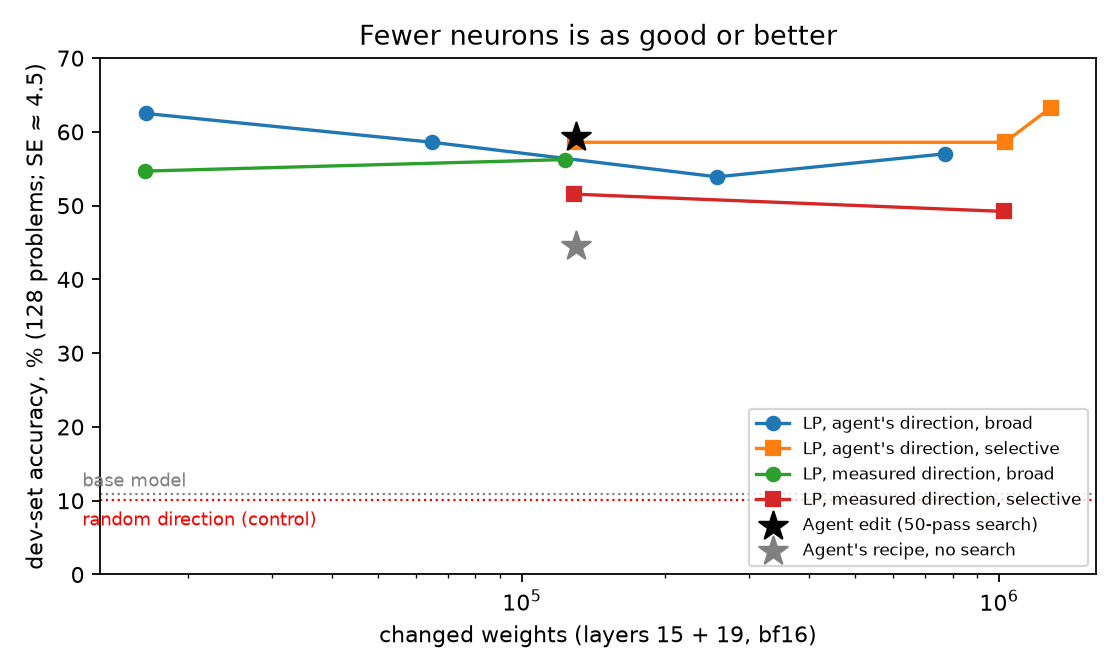
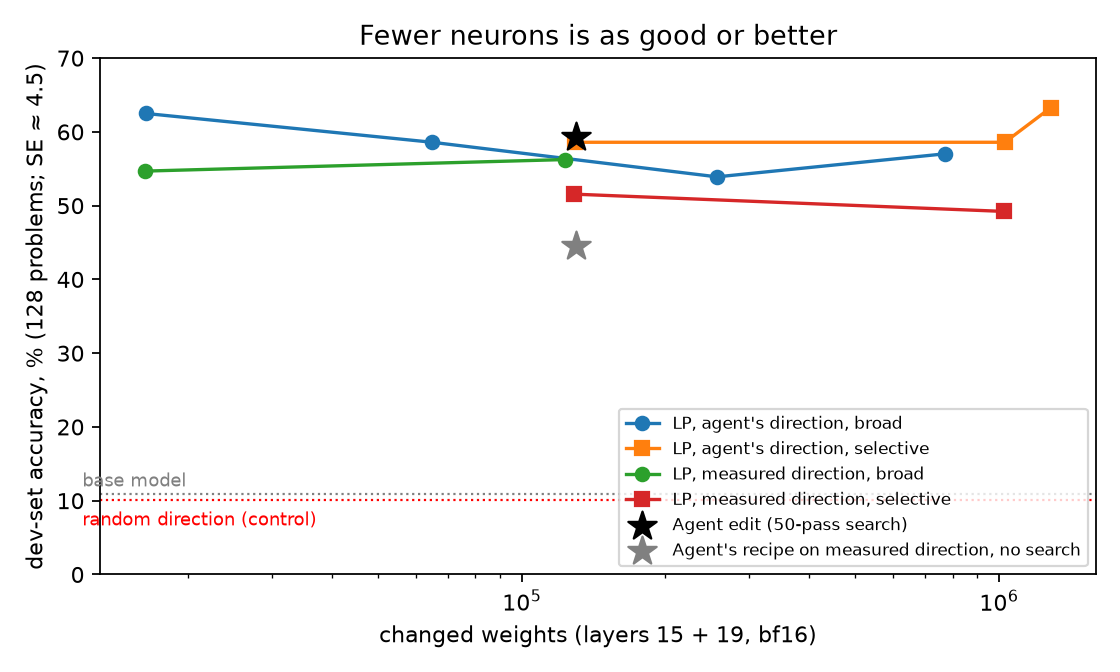
Fix the no-search recipe comparison: that control uses the measured direction (44.5 vs LP 54.7 on the same direction), not the agent's

Changed region(s): [[0.5312, 0.5938, 0.9688, 0.8438]]

diff --git a/scripts/make_figures.py b/scripts/make_figures.py
@@ -37,7 +37,7 @@ for label, (names, col, mk) in series.items():
     x = [weights(n) for n in names]
     y = [dev_acc(n) for n in names]
     ax.plot(x, y, marker=mk, color=col, label=label)
-for n, txt, col in [("astra_p50c", "Agent edit (50-pass search)", "k"), ("recipe_nosearch", "Agent's recipe, no search", "gray")]:
+for n, txt, col in [("astra_p50c", "Agent edit (50-pass search)", "k"), ("recipe_nosearch", "Agent's recipe on measured direction, no search", "gray")]:
     ax.scatter([weights(n)], [dev_acc(n)], marker="*", s=180, color=col, zorder=5, label=txt)
 ax.axhline(dev_acc("base"), color="gray", ls=":", lw=1)
 ax.text(1.2e4, dev_acc("base") + 1, "base model", color="gray", fontsize=8)

diff --git a/src/wslp/eval/results.py b/src/wslp/eval/results.py
@@ -39,7 +39,7 @@ def totals(runs, sets=None) -> dict:
     return {"samples": n, "cut_share": cut / n, "mean_tokens": tok / n}
 
 
-FIXED = {"base": "Base model", "astra_p50c": "Agent edit", "recipe_nosearch": "Agent's recipe, no search",
+FIXED = {"base": "Base model", "astra_p50c": "Agent edit", "recipe_nosearch": "Agent's recipe on the measured direction, no search",
          "random_ctrl": "Random direction (control)"}
 HEADLINE = {"shift_k8": "LP, agent's direction", "realshift_k8": "LP, measured direction"}
 

diff --git a/docs/WRITEUP.md b/docs/WRITEUP.md
@@ -92,7 +92,8 @@ cosine with the agent's direction is about 0.6.
    - **broad** (ε = 1.0: productive tokens may move, so the edit becomes a near-constant push) vs. **selective**
      (ε = 0.25: the edit tries to act only on loops).
 
-   Controls: a random direction, and the agent's recipe applied once without its search. The pick was **broad, 8
+   Controls: a random direction, and the agent's recipe (its column scoring and 6× rule) applied once to the
+   measured direction, without search. The pick was **broad, 8
    neurons per layer**. "LP, agent's direction" and "LP, measured direction" below both mean that setting.
 4. **Confirmed on untouched data** ([results/benchmarks](../results/benchmarks/README.md)): 512 fresh practice
    problems never used to fit or pick anything, GSM8K test, MATH-500 (4 samples per problem) and IFEval.
@@ -107,8 +108,9 @@ cosine with the agent's direction is about 0.6.
 
 - **Given the agent's direction, the LP matches the agent edit with 8× fewer weights.** It is within about a point of
   the agent edit on every benchmark, all within noise.
-- **The search was worth something, and the LP replaces it.** The agent's recipe applied once without its search
-  scores 44.5 on the dev set vs. 59.4 for the agent edit. One LP solve on the same direction scores 62.5.
+- **On the same direction, the LP beats the agent's recipe.** The agent's recipe applied once to the measured
+  direction, without search, scores 44.5 on the dev set; one LP solve on that direction scores 54.7 with 8 neurons
+  per layer. On the agent's direction, one LP solve (62.5) does as well as the agent's searched edit (59.4).
 - **With the measured direction (no LLM, though still on the agent's layers 15 and 19), the LP gets about 93% of the
   way.** It is about 3 points behind the agent edit on GSM8K test and MATH-500 and ties it on IFEval. The gap comes
   from the direction, not the push strength: pushing looping tokens 2×, 4× or 8× their measured excess along `u`

diff --git a/results/dev_sweep/README.md b/results/dev_sweep/README.md
@@ -13,7 +13,7 @@ Table built by `python scripts/paired_table.py`.
 |---|---|---|---|---|---|---|---|---|---|
 | Base model | `base` | 0 | 10.9 | 10.9 | 10.9 | +0.0 (0.0) | 0 / 0 | 89.1 | 29,868 |
 | Agent edit | `astra_p50c` | 130,188 | 70.3 | 48.4 | 59.4 | +48.4 (4.7) | 64 / 2 | 12.5 | 16,502 |
-| Agent's recipe, no search | `recipe_nosearch` | 130,152 | 53.1 | 35.9 | 44.5 | +33.6 (4.2) | 43 / 0 | 48.4 | 20,719 |
+| Agent's recipe on the measured direction, no search | `recipe_nosearch` | 130,152 | 53.1 | 35.9 | 44.5 | +33.6 (4.2) | 43 / 0 | 48.4 | 20,719 |
 | Random direction (control) | `random_ctrl` | 130,285 | 9.4 | 10.9 | 10.2 | -0.8 (2.1) | 3 / 4 | 92.2 | 30,661 |
 | LP, agent's direction, broad, 8 neurons/layer | `shift_k8` | 16,291 | 71.9 | 53.1 | 62.5 | +51.6 (4.6) | 67 / 1 | 21.9 | 14,501 |
 | LP, agent's direction, broad, 32 neurons/layer | `shift_k32` | 64,927 | 70.3 | 46.9 | 58.6 | +47.7 (4.6) | 62 / 1 | 25.0 | 14,278 |

diff --git a/results/README.md b/results/README.md
@@ -9,7 +9,7 @@ Tables use readable names; file and folder names use short IDs:
 | `shift_k<N>` / `sel_k<N>` | LP with the agent's direction, broad (ε = 1.0) / selective (ε = 0.25), N neurons per layer |
 | `lp_shift` / `lp_sel` | Same, with no neuron limit |
 | `real…` | Same LPs with the measured direction; `_d2` / `_d8` = push 2× / 8× the loop excess (default 4×) |
-| `recipe_nosearch`, `random_ctrl` | Agent's recipe without its search; random direction (control) |
+| `recipe_nosearch`, `random_ctrl` | Agent's recipe (column scoring, 6× rule) applied once to the measured direction, no search; random direction (control) |
 | `steer_<edit>_x<s>` | Unedited model plus s × that edit's average push as a constant vector |
 | `dev_a`, `final_practice` | Dev set (128 problems), fresh practice (512 problems) |
 
